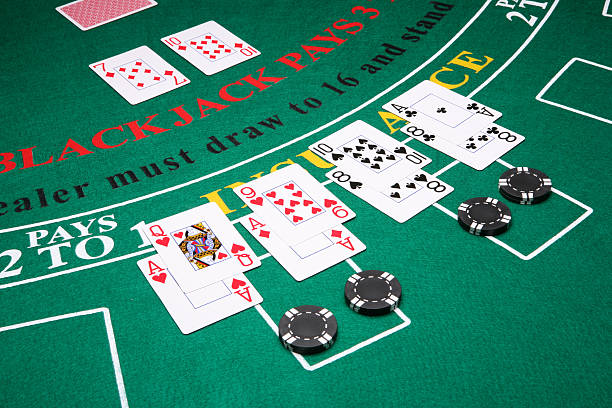
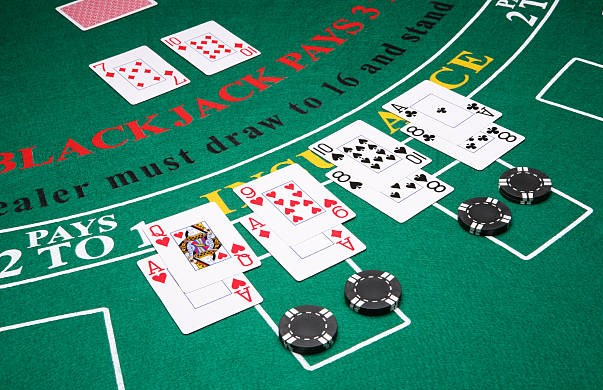
[Bug] responsive images in overview

diff --git a/frontend/casino-ip2/src/views/overview/Overview.tsx b/frontend/casino-ip2/src/views/overview/Overview.tsx
@@ -22,7 +22,7 @@ function Overview() {
 						<Col sm={{span:24}} md={{span:12}}>
 							<Link to={`${RouteName.BLACKJACK}`} data-testid="blackjack-link">
 								<Card hoverable
-									cover={<img alt="blackjack" src={require('./images/blackjack.jpg')} height="260px" data-testid="blackjack-card"/>}>
+									cover={<img alt="blackjack" src={require('./images/blackjack.jpg')} data-testid="blackjack-card"/>}>
 										<Row justify="center">
 											<Meta title="Blackjack" />
 										</Row>
@@ -32,7 +32,7 @@ function Overview() {
 						<Col sm={{span:24}} md={{span:12}}>
 							<Link to={`${RouteName.SLOTMACHINE}`} data-testid="slotmachine-link">
 								<Card hoverable 
-									cover={<img alt="slotmachine" src={require('./images/slotmaschine.jpg')} height="260px" data-testid="slotmachine-card"/>}>
+									cover={<img alt="slotmachine" src={require('./images/slotmaschine.jpg')} data-testid="slotmachine-card"/>}>
 										<Row justify="center">
 											<Meta title="Slotmachine" />
 										</Row>
@@ -43,7 +43,7 @@ function Overview() {
 						<Col sm={{span:24}} md={{span:12}}>
 							<Link to={`${RouteName.SPORTBET}`} data-testid="sportbet-link">
 								<Card hoverable 
-									cover={<img alt="sportbet" src={require('./images/sportbet.jpg')} height="260px" data-testid="sportbet-card"/>}>
+									cover={<img alt="sportbet" src={require('./images/sportbet.jpg')} data-testid="sportbet-card"/>}>
 										<Row justify="center">
 											<Meta title="Sportbet" />
 										</Row>
